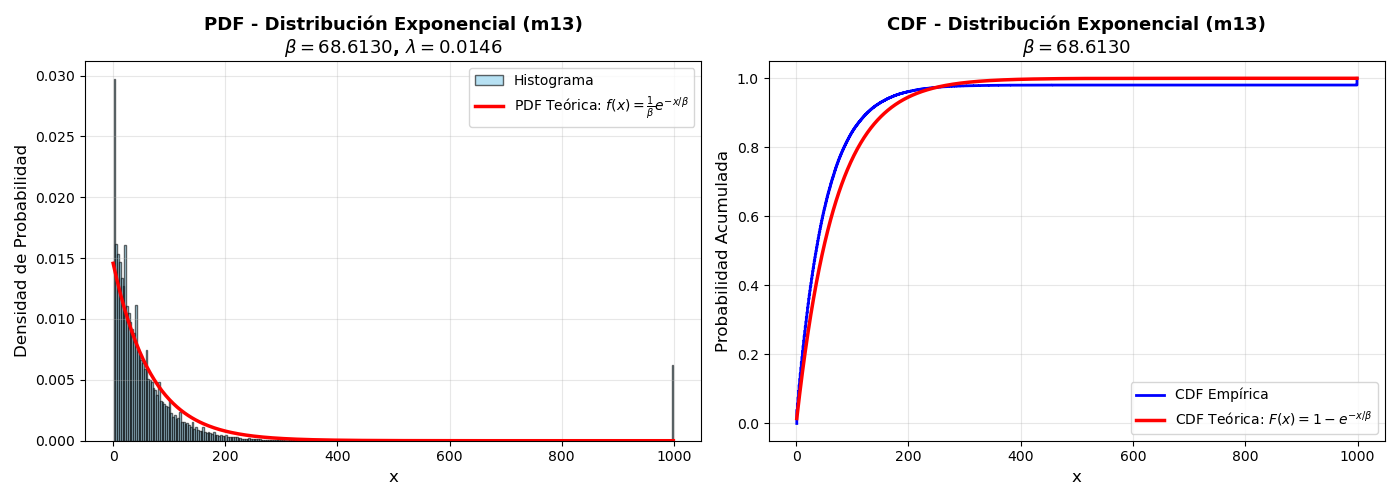
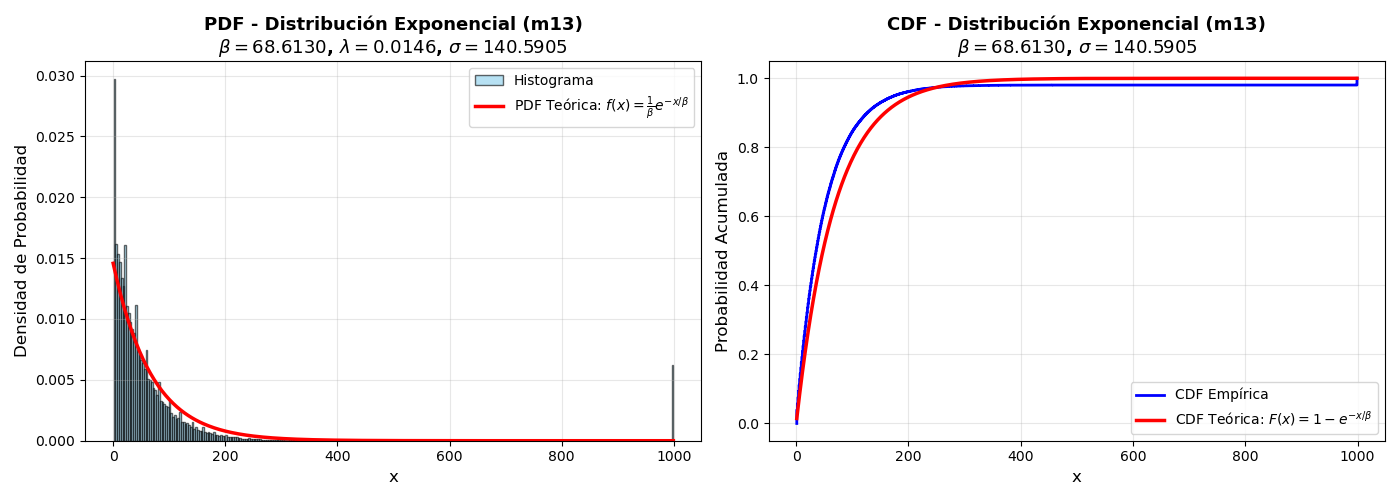
update

Changed region(s): [[0.1536, 0.06, 0.3993, 0.12], [0.6757, 0.06, 0.86, 0.12]]

diff --git a/tarea4/graficos_distribuciones.py b/tarea4/graficos_distribuciones.py
@@ -3,12 +3,10 @@ import numpy as np
 from scipy import stats
 
 def analizar_muestra_uniforme(numbers, nombre="muestra"):
-    """
-    Análisis completo para distribución uniforme
-    """
     numbers = np.asarray(numbers, dtype=float)
     n = len(numbers)
     bins = int(np.sqrt(n))
+    sigma = np.std(numbers, ddof=1)
     
     # Parámetros
     a = numbers.min()
@@ -34,7 +32,7 @@ def analizar_muestra_uniforme(numbers, nombre="muestra"):
     
     ax1.set_xlabel('x', fontsize=12)
     ax1.set_ylabel('Densidad de Probabilidad', fontsize=12)
-    ax1.set_title(f'PDF - Distribución Uniforme ({nombre})\n$a = {a:.4f}$, $b = {b:.4f}$', 
+    ax1.set_title(f'PDF - Distribución Uniforme ({nombre})\n$a = {a:.4f}$, $b = {b:.4f}$, $σ = {sigma:.4f}$', 
                   fontsize=13, fontweight='bold')
     ax1.legend(fontsize=10)
     ax1.grid(True, alpha=0.3)
@@ -54,7 +52,7 @@ def analizar_muestra_uniforme(numbers, nombre="muestra"):
     
     ax2.set_xlabel('x', fontsize=12)
     ax2.set_ylabel('Probabilidad Acumulada', fontsize=12)
-    ax2.set_title(f'CDF - Distribución Uniforme ({nombre})\n$a = {a:.4f}$, $b = {b:.4f}$', 
+    ax2.set_title(f'CDF - Distribución Uniforme ({nombre})\n$a = {a:.4f}$, $b = {b:.4f}$, $σ = {sigma:.4f}$', 
                   fontsize=13, fontweight='bold')
     ax2.legend(fontsize=10)
     ax2.grid(True, alpha=0.3)
@@ -63,9 +61,6 @@ def analizar_muestra_uniforme(numbers, nombre="muestra"):
     plt.show()
 
 def analizar_muestra_exponencial(numbers, nombre="m16"):
-    """
-    Análisis completo para distribución exponencial
-    """
     numbers = np.asarray(numbers, dtype=float)
     n = len(numbers)
     bins = int(np.sqrt(n))
@@ -73,6 +68,7 @@ def analizar_muestra_exponencial(numbers, nombre="m16"):
     # Parámetros
     beta = np.mean(numbers)
     lambd = 1 / beta
+    sigma = np.std(numbers, ddof=1)
     
     # Crear figura con dos subplots
     fig, (ax1, ax2) = plt.subplots(1, 2, figsize=(14, 5))
@@ -88,7 +84,7 @@ def analizar_muestra_exponencial(numbers, nombre="m16"):
              label=f'PDF Teórica: $f(x) = \\frac{{1}}{{β}} e^{{-x/β}}$')
     ax1.set_xlabel('x', fontsize=12)
     ax1.set_ylabel('Densidad de Probabilidad', fontsize=12)
-    ax1.set_title(f'PDF - Distribución Exponencial ({nombre})\n$β = {beta:.4f}$, $λ = {lambd:.4f}$', 
+    ax1.set_title(f'PDF - Distribución Exponencial ({nombre})\n$β = {beta:.4f}$, $λ = {lambd:.4f}$, $σ = {sigma:.4f}$', 
                   fontsize=13, fontweight='bold')
     ax1.legend(fontsize=10)
     ax1.grid(True, alpha=0.3)
@@ -104,7 +100,7 @@ def analizar_muestra_exponencial(numbers, nombre="m16"):
              label=f'CDF Teórica: $F(x) = 1 - e^{{-x/β}}$')
     ax2.set_xlabel('x', fontsize=12)
     ax2.set_ylabel('Probabilidad Acumulada', fontsize=12)
-    ax2.set_title(f'CDF - Distribución Exponencial ({nombre})\n$β = {beta:.4f}$', 
+    ax2.set_title(f'CDF - Distribución Exponencial ({nombre})\n$β = {beta:.4f}$, $σ = {sigma:.4f}$', 
                   fontsize=13, fontweight='bold')
     ax2.legend(fontsize=10)
     ax2.grid(True, alpha=0.3)
@@ -113,9 +109,6 @@ def analizar_muestra_exponencial(numbers, nombre="m16"):
     plt.show()
 
 def analizar_muestra_normal(numbers, nombre="m8"):
-    """
-    Análisis completo para distribución normal
-    """
     numbers = np.asarray(numbers, dtype=float)
     n = len(numbers)
     bins = int(np.sqrt(n))
@@ -163,12 +156,10 @@ def analizar_muestra_normal(numbers, nombre="m8"):
     plt.show()
 
 def analizar_muestra_gamma(numbers, nombre="m13"):
-    """
-    Análisis completo para distribución gamma
-    """
     numbers = np.asarray(numbers, dtype=float)
     n = len(numbers)
     bins = int(np.sqrt(n))
+    sigma = np.std(numbers, ddof=1)
     
     # Estimar parámetros usando MLE
     shape, loc, scale = stats.gamma.fit(numbers, floc=0)
@@ -187,7 +178,7 @@ def analizar_muestra_gamma(numbers, nombre="m13"):
              label=f'PDF Teórica: $f(x) = \\frac{{x^{{α-1}} e^{{-x/β}}}}{{Γ(α)β^α}}$')
     ax1.set_xlabel('x', fontsize=12)
     ax1.set_ylabel('Densidad de Probabilidad', fontsize=12)
-    ax1.set_title(f'PDF - Distribución Gamma ({nombre})\n$α = {shape:.4f}$, $β = {scale:.4f}$', 
+    ax1.set_title(f'PDF - Distribución Gamma ({nombre})\n$α = {shape:.4f}$, $β = {scale:.4f}$, $σ = {sigma:.4f}$', 
                   fontsize=13, fontweight='bold')
     ax1.legend(fontsize=9)
     ax1.grid(True, alpha=0.3)
